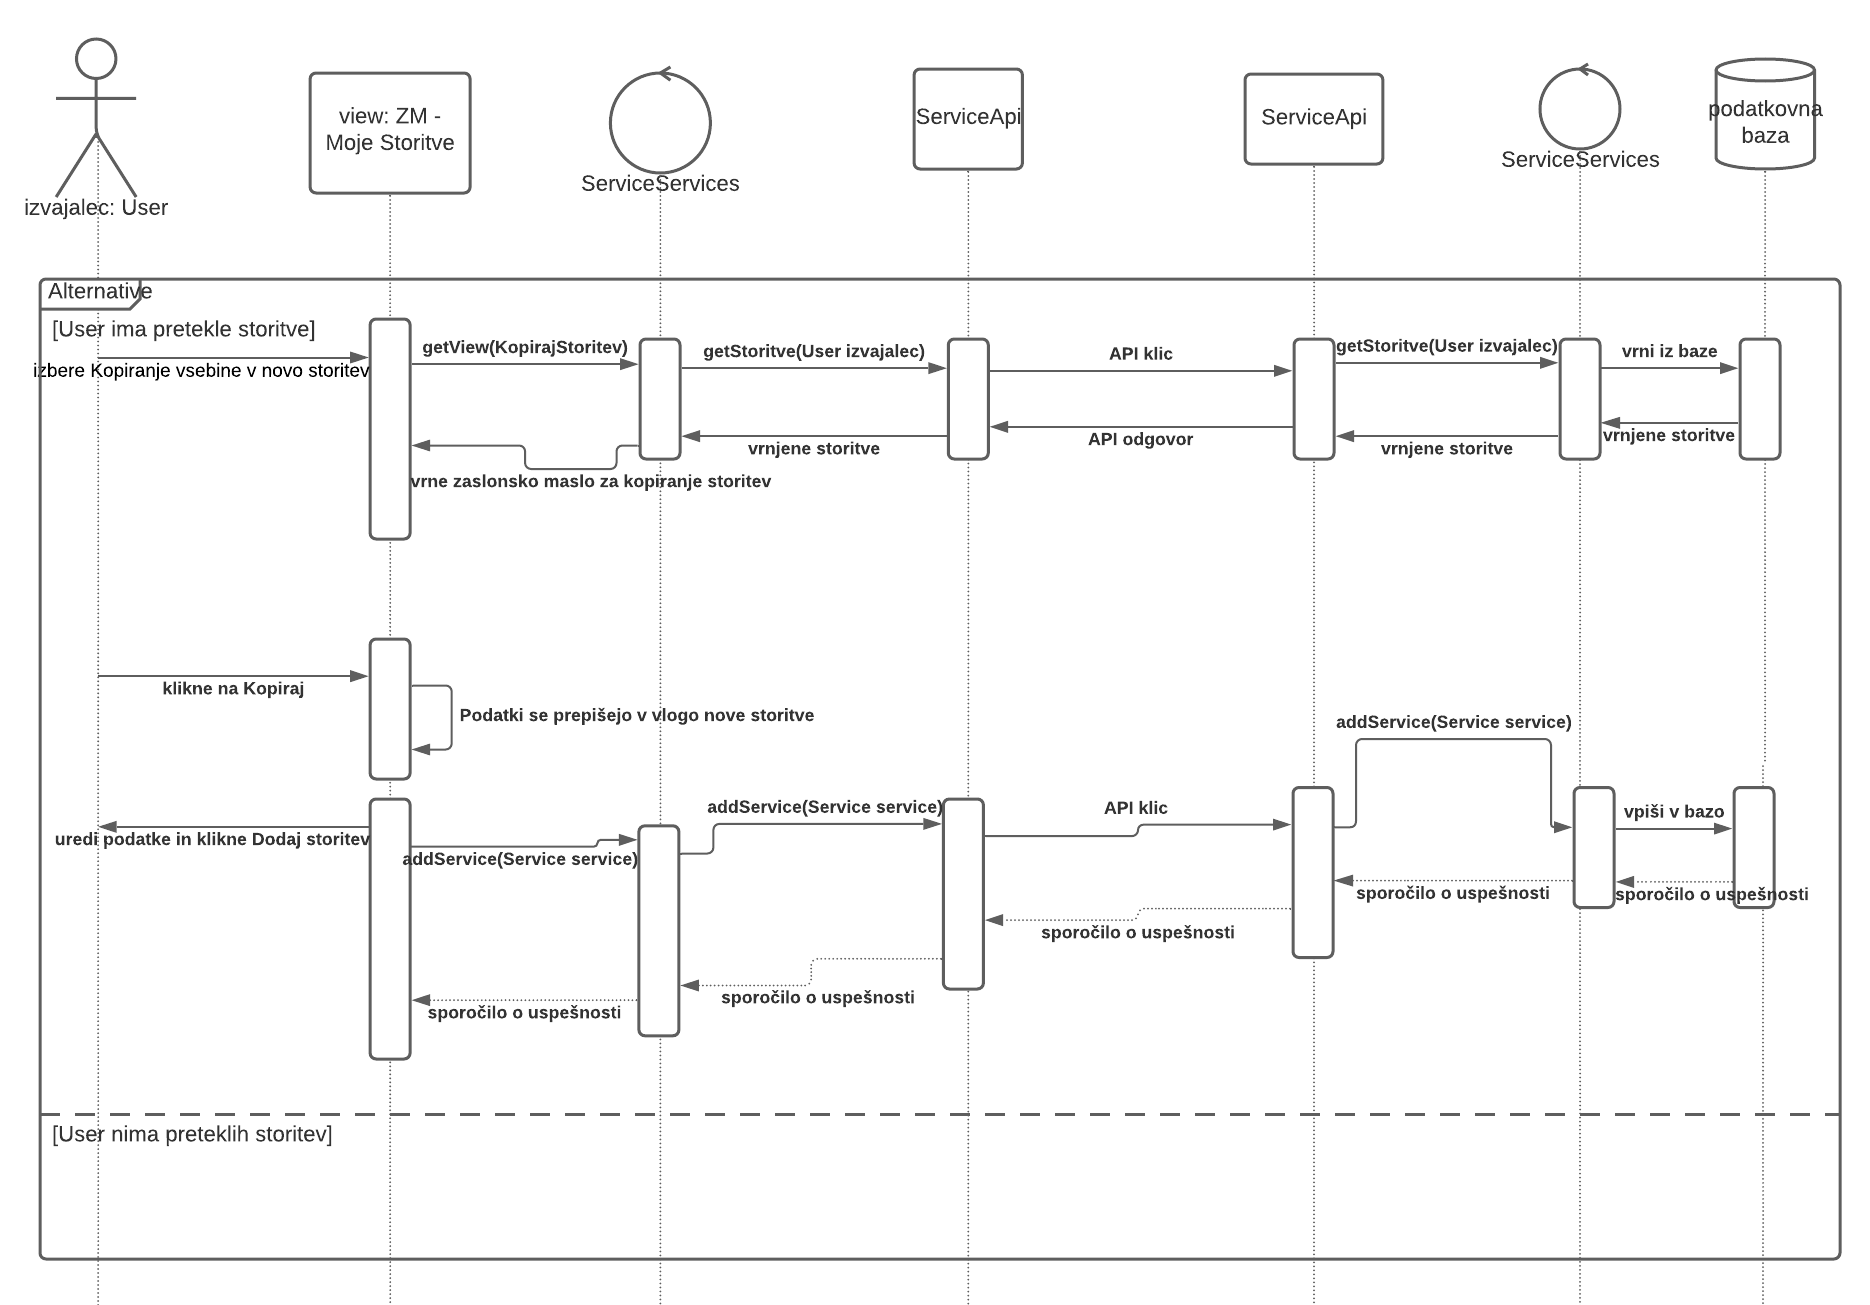
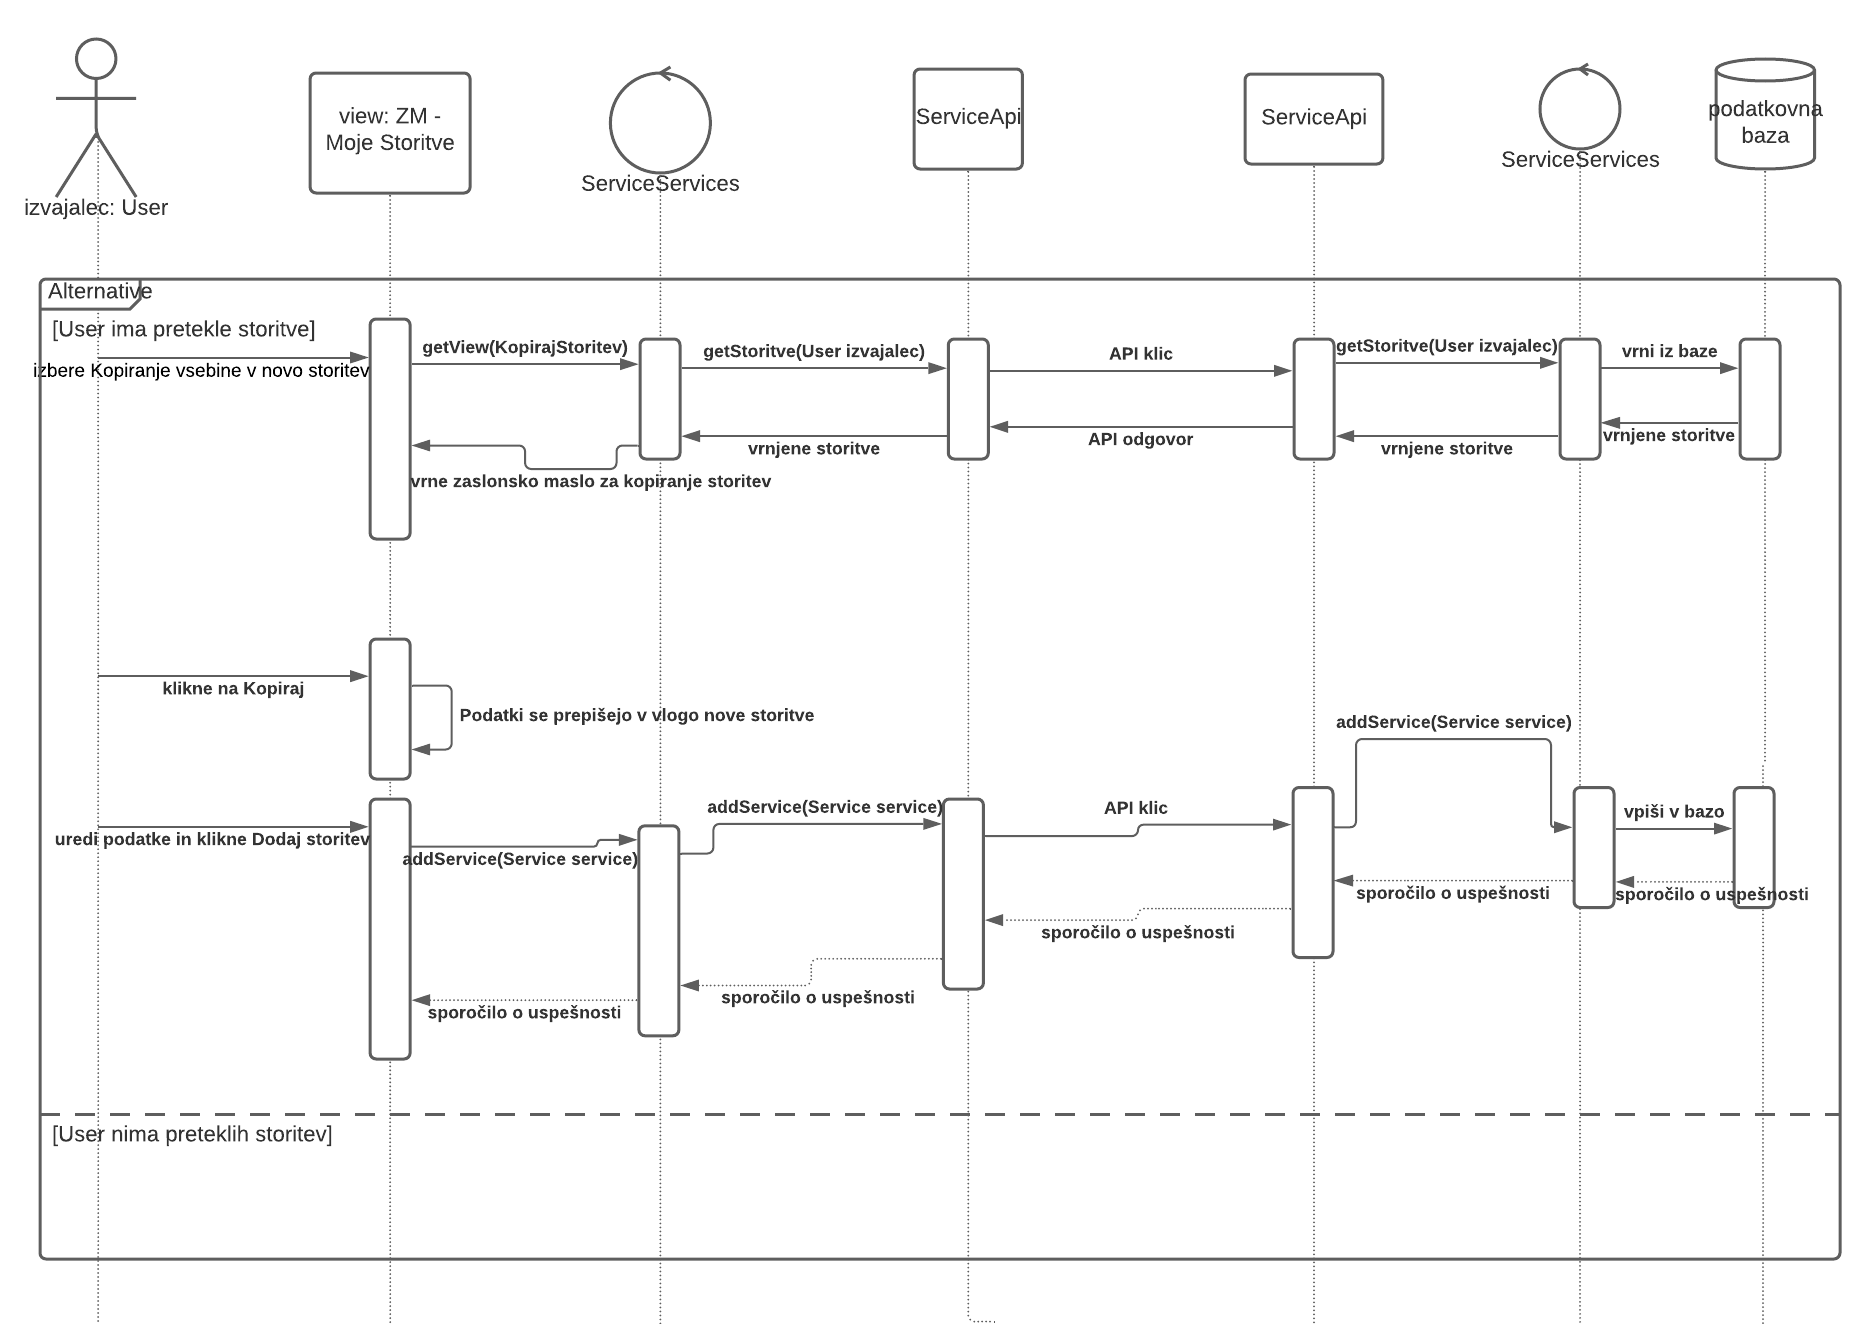
dodan diagram aktivnosti za kopiranje storitev (lažje razumevanje)

diff --git a/docs/nacrt/README.md b/docs/nacrt/README.md
@@ -437,7 +437,7 @@ V primeru da strežnik spletni aplikaciji vrne prazen seznam, bo aplikacija obve
 ![](../img/Izjemni%20getServices().png)
 
 
-### 3.4 Dodaj storitev
+### 3.4 Dodajanje nove ponudbe storitve kot izvajalec storitve
 #### Osnovni tok
 Storitev dodamo lahko samo kot uporabnik tipa "Izvajalec". Storitev dodamo tako, da na zaslonski maski "Pregled storitev" izberemo možnost "Dodaj novo storitev". Na novo odprti vlogi izpolnimo podatke in pritisnemo na gumb "Oddaj ponudbo". Podatki se zatem posredujejo kontrolerju, ki jih preko API klica posreduje strežniku. Kontroler na strani strežnika podatke vpiše v bazo, uporabniku pa se prikaže obvestilo o uspešnosti dodajanja storitve.
 
@@ -457,7 +457,7 @@ API klic v grafu predstavlja klic metode `Service postService(Service service)`.
 
 ![](../img/dodaj_storitev_diagram_izjemni.png)
 
-### 3.5 Dodaj psa
+### 3.5 Dodajanje novega psa z njegovimi lastnostmi kot lastnik psa
 #### Osnovni tok
 
 Psa lahko dodamo kot uporabnik tipa "Lastnik". Na zaslonski maski izberemo možnost "Dodaj novega psa". Na odprti vlogi izolnimo zahtevane podatke in kliknemo na gumb "Dodaj štirinožca". Podatki se preko kontrolerja posredujejo z API klicem na strežnik, kjer se preko kontrolerja zapišejo v bazo. Uporabniko se posreduje sporočilo o uspešnosti shranjevanja.
@@ -480,13 +480,17 @@ API klic v grafu predstavlja klic metode `Dogo postDogo(Dogo dogo)`.
 
 ![](../img/dodaj_psa_diagram_izjemni.png)
 
-### 3.6 Kopiraj storitev
+### 3.6 Kopiranje vsebine pretečene storitve v novo storitev, kot izvajalec storitev
 
 Pod zaslonsko masko "Pretekle storitve" lahko izberemo možnost kopiranja storitve samo v primeru, da kot izvajalec imamo storitve, ki smo jih izvedli v preteklosti. S klikom na gumb "Kopiranje vsebine v novo storitev" se v novi zaslonski maski "Kopiraj storitev" v spustnem meniju prikažejo pretekle storitve, ki jih preko API-ja dobimo iz podatkovne baze na strežniku. S klikom na bumb "Kopiraj" se prepišejo podatki v vlogo nove storitve. Zatem lahko uredimo želene podatke in pritisnemo na gumb "Dodaj storitev", ki s pomočjo kontrolerja izvede API klic na strežnik za zapis nove storitve v podatkovno bazo.
 
 API klic v grafu predstavlja klic metode `Service postService(Service service)`.
 
 ![](../img/kopiraj_storitev_diagram.png)
+
+Diagram aktivnosti je namenjem lažjemu razumevanju poteka funckionalnosti in zaporedju akcij le-te.
+
+![](../img/kopiraj_storitev_aktivnosti.png)
 
 ### 3.7 Pregled in urejanje podatkov uporabnika kot administrator sistema
 
